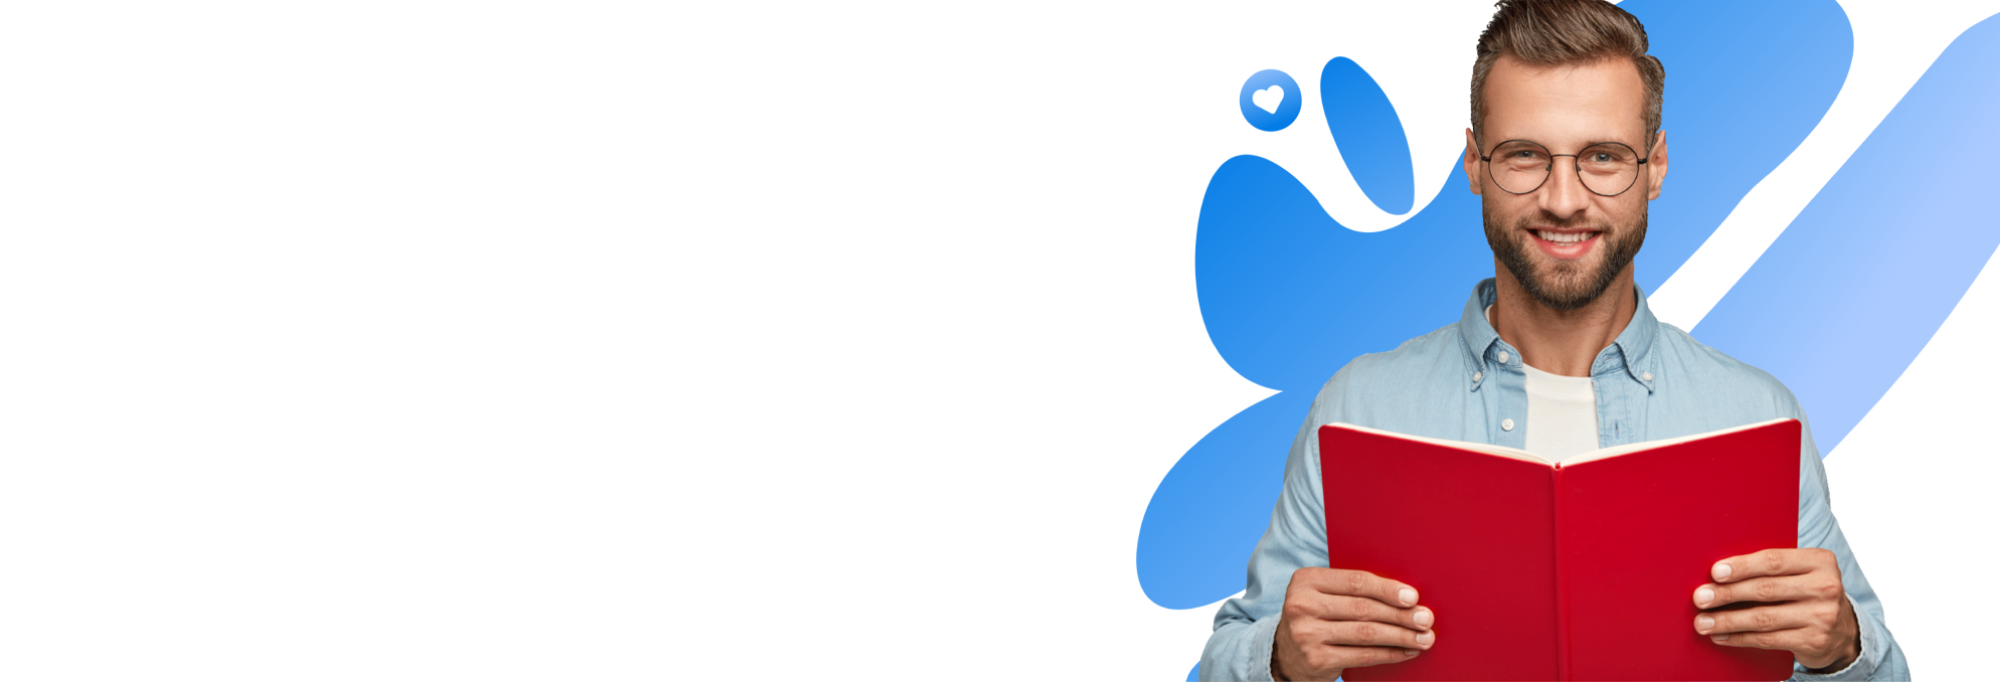
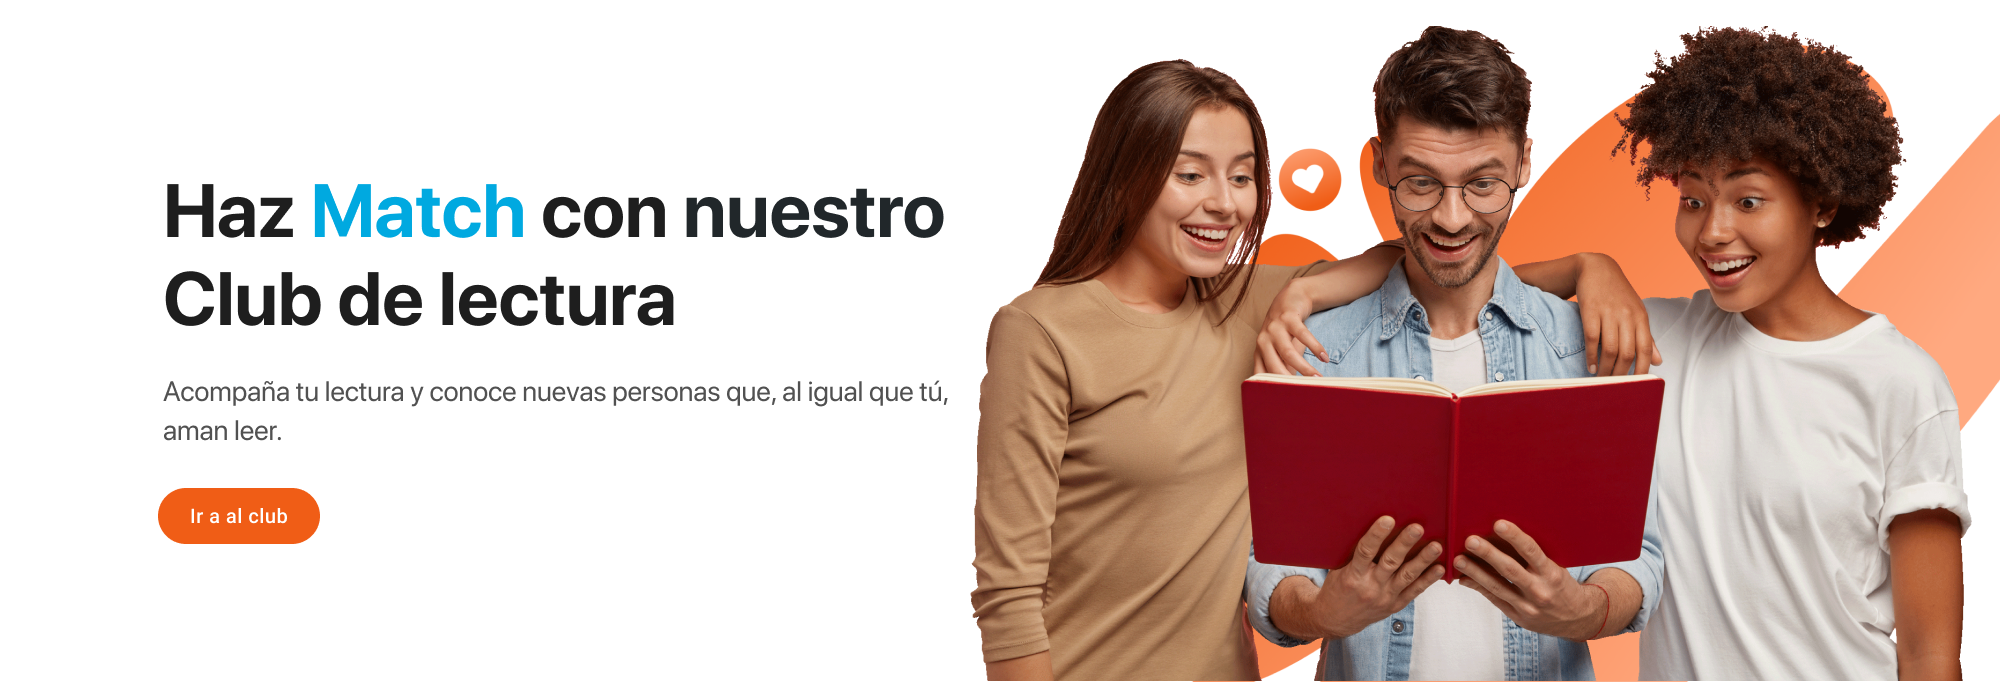
update_details

diff --git a/frontend-matchbook/src/pages/home2/home2.tsx b/frontend-matchbook/src/pages/home2/home2.tsx
@@ -18,6 +18,8 @@ import "../../App.css";
 import axios from "axios";
 
 
+import { Link as RouterLink } from 'react-router-dom';
+
 
 interface HomeProps {
 }
@@ -73,7 +75,6 @@ interface Book {
     description_book: string;
 }
 
-
 {/*-----------------------------------------------------------------------------*/}
 {/* Breadcrumbs*/}
 function handleClick(event: React.MouseEvent<HTMLDivElement, MouseEvent>) {
@@ -99,7 +100,6 @@ function handleClick(event: React.MouseEvent<HTMLDivElement, MouseEvent>) {
             const response = await axios.get('http://localhost:3001/publications/publication');
             const publicationResponse = response.data;
             setPublications(response.data);
-            console.log(JSON.stringify(response.data, null, 2))
         } catch (error) {
         console.error('Error fetching publications:', error);
         }
@@ -110,7 +110,6 @@ function handleClick(event: React.MouseEvent<HTMLDivElement, MouseEvent>) {
             const responseUser= await axios.get(`http://localhost:3001/users/rut/${users.rut_user}`);
             const userResponse = responseUser.data;
             setUsers(userResponse);
-            console.log(JSON.stringify(responseUser.data, null, 2))
         } catch (error) {
         console.error('error usuario local:', error);
         }
@@ -204,34 +203,39 @@ function handleClick(event: React.MouseEvent<HTMLDivElement, MouseEvent>) {
             </div>
             
             <div>
-                <Carousel className="carousel" showThumbs={false}
-                    renderArrowPrev={(onClickHandler, hasPrev, label) => 
-                        hasPrev && (
-                            <button type="button" onClick={onClickHandler} title={label} style={{...arrowStyles, left: 15}}>
-                                &#10094;
-                            </button>
-                        )
-                    }
-                    renderArrowNext={(onClickHandler, hasNext, label) => 
-                        hasNext && (
-                            <button type="button" onClick={onClickHandler} title={label} style={{...arrowStyles, right: 15}}>
-                                &#10095;
-                            </button>
-                        )
-                    }
-                >
-                    <div>
-                        <img className="carousel" src={image1}  />
+            <Carousel
+                className="carousel"
+                showThumbs={false}
+                autoPlay={true}
+                interval={4000}
+                infiniteLoop={true}
+                renderArrowPrev={(onClickHandler, hasPrev, label) =>
+                    hasPrev && (
+                        <button type="button" onClick={onClickHandler} title={label} style={{ ...arrowStyles, left: 15 }}>
+                            ❮
+                        </button>
+                    )
+                }
+                renderArrowNext={(onClickHandler, hasNext, label) =>
+                    hasNext && (
+                        <button type="button" onClick={onClickHandler} title={label} style={{ ...arrowStyles, right: 15 }}>
+                            ❯
+                        </button>
+                    )
+                }
+            >
+                <div>
+                    <Link component={RouterLink} to="/login" style={{ display: 'block', width: '100%', height: '100%' }}>
+                        <img className="carousel" src={image1} alt="Ir a login" style={{ width: '100%', height: 'auto' }} />
+                    </Link>
+                </div>
+                <div>
+                    <Link component={RouterLink} to="/readingClub" style={{ display: 'block', width: '100%', height: '100%' }}>
+                        <img className="carousel" src={image2} alt="Ir a Reading Club" style={{ width: '100%', height: 'auto' }} />
+                    </Link>
+                </div>
+            </Carousel>
 
-                            <Button href="/readingClub" variant="contained" style={{ textTransform: "none", backgroundColor: '#f05d16', color: 'white', borderRadius: '30px', position: 'absolute', top: '75%', left: '11.3%', transform: 'translate(-50%, -50%)', width: 'auto', padding: '6px 16px' }}>
-                                Ir al Club
-                            </Button>
-                    </div>
-                    <div>
-                        <img className="carousel" src={image2} />
-                        
-                    </div>
-                </Carousel>
             </div>
             <br />
             <div style={{ textAlign: "center" , marginLeft: "80px" , marginRight: "80px" }}>
